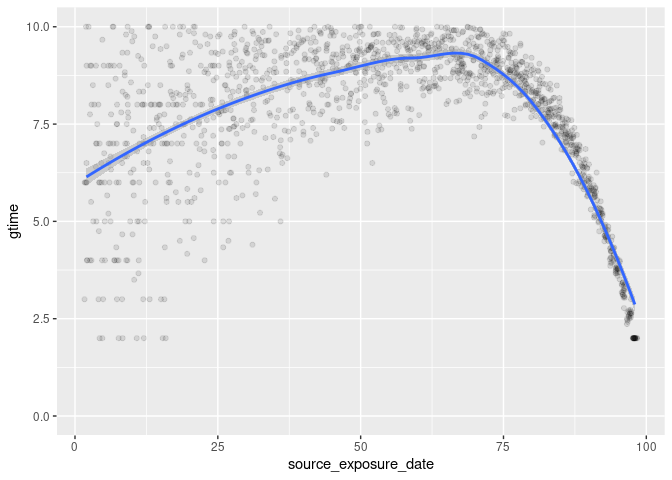
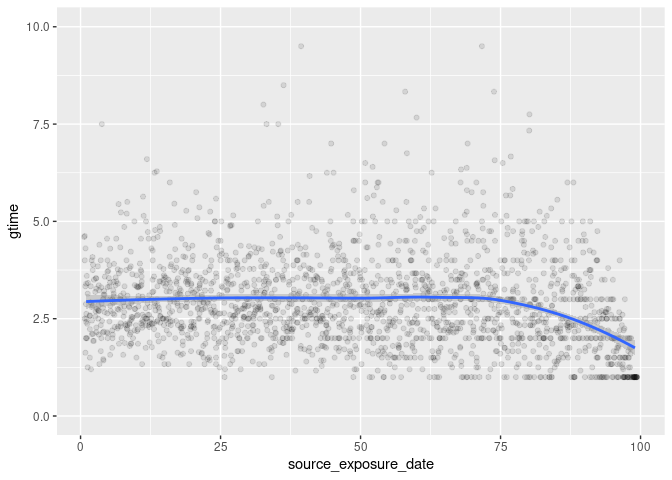
Updating results (were cached before)

diff --git a/model-rt5/README.md b/model-rt5/README.md
@@ -101,19 +101,19 @@ summary(mymodel)
     ________________________________________________________________________________
     SIMULATION STUDY
 
-    Name of the model   : Susceptible-Exposed-Infected-Removed (SEIR) (connected)
+    Name of the model   : Susceptible-Exposed-Infected-Removed (SEIR)
     Population size     : 20000
     Agents' data loaded : yes (2 columns/features)
     Number of entities  : 0
     Days (duration)     : 100 (of 100)
     Number of viruses   : 1
-    Last run elapsed t  : 0.00s
-    Total elapsed t     : 16.00s (200 runs)
-    Last run speed      : 3.20 million agents x day / second
-    Average run speed   : 24.33 million agents x day / second
+    Last run elapsed t  : 4.00ms
+    Total elapsed t     : 114.00ms (200 runs)
+    Last run speed      : 412.54 million agents x day / second
+    Average run speed   : 3491.07 million agents x day / second
     Rewiring            : off
 
-    Global actions:
+    Global events:
      (none)
 
     Virus(es):
@@ -123,22 +123,21 @@ summary(mymodel)
      (none)
 
     Model parameters:
-     - Avg. Incubation days : 7.0000
-     - Contact rate         : 2.0000
-     - Prob. Recovery       : 0.1429
-     - Prob. Transmission   : 0.3000
+     - Incubation days   : 7.0000
+     - Recovery rate     : 0.1429
+     - Transmission rate : 0.3000
 
     Distribution of the population at time 100:
-      - (0) Susceptible : 19980 -> 14999
-      - (1) Exposed     :    20 -> 1292
-      - (2) Infected    :     0 -> 957
-      - (3) Recovered   :     0 -> 2752
+      - (0) Susceptible : 19980 -> 18924
+      - (1) Exposed     :    20 -> 47
+      - (2) Infected    :     0 -> 48
+      - (3) Removed     :     0 -> 981
 
     Transition Probabilities:
      - Susceptible  1.00  0.00  0.00  0.00
      - Exposed      0.00  0.86  0.14  0.00
-     - Infected     0.00  0.00  0.83  0.17
-     - Recovered    0.00  0.00  0.00  1.00
+     - Infected     0.00  0.00  0.85  0.15
+     - Removed      0.00  0.00  0.00  1.00
 
 ``` r
 # Retrieving the results
@@ -167,12 +166,6 @@ ggplot(rt_sample, aes(x = source_exposure_date, y = rt)) +
 ```
 
     `geom_smooth()` using formula = 'y ~ x'
-
-    Warning: Removed 2 rows containing non-finite values (`stat_smooth()`).
-
-    Warning: Removed 2 rows containing missing values (`geom_point()`).
-
-    Warning: Removed 2 rows containing missing values (`geom_smooth()`).
 
 ![](README_files/figure-commonmark/repnum-1.png)
 
@@ -204,9 +197,9 @@ ggplot(gentime_sample, aes(x = source_exposure_date, y = gtime)) +
 
     `geom_smooth()` using formula = 'y ~ x'
 
-    Warning: Removed 494 rows containing non-finite values (`stat_smooth()`).
+    Warning: Removed 1 rows containing non-finite values (`stat_smooth()`).
 
-    Warning: Removed 494 rows containing missing values (`geom_point()`).
+    Warning: Removed 1 rows containing missing values (`geom_point()`).
 
 ![](README_files/figure-commonmark/gentime-1.png)
 
@@ -316,11 +309,11 @@ epicurves_end[, .(
     ), by = "state"] |> knitr::kable()
 ```
 
-| state       |      Avg |    50% |     2.5% |     97.5% |
-|:------------|---------:|-------:|---------:|----------:|
-| Susceptible | 9915.370 | 9662.5 | 7034.675 | 14117.050 |
-| Exposed     | 1871.255 | 1899.0 | 1475.150 |  2052.275 |
-| Infected    | 1745.905 | 1805.0 | 1153.850 |  1966.100 |
-| Recovered   | 6467.470 | 6539.0 | 3118.400 |  9261.400 |
+| state       |       Avg |   50% |     2.5% |     97.5% |
+|:------------|----------:|------:|---------:|----------:|
+| Susceptible | 18975.190 | 18962 | 18737.45 | 19219.300 |
+| Exposed     |    39.205 |    39 |    17.00 |    65.050 |
+| Infected    |    42.525 |    43 |    20.00 |    70.025 |
+| Removed     |   943.080 |   953 |   729.65 |  1158.050 |
 
 [^1]: The description of the model was generated by GitHub copilot
